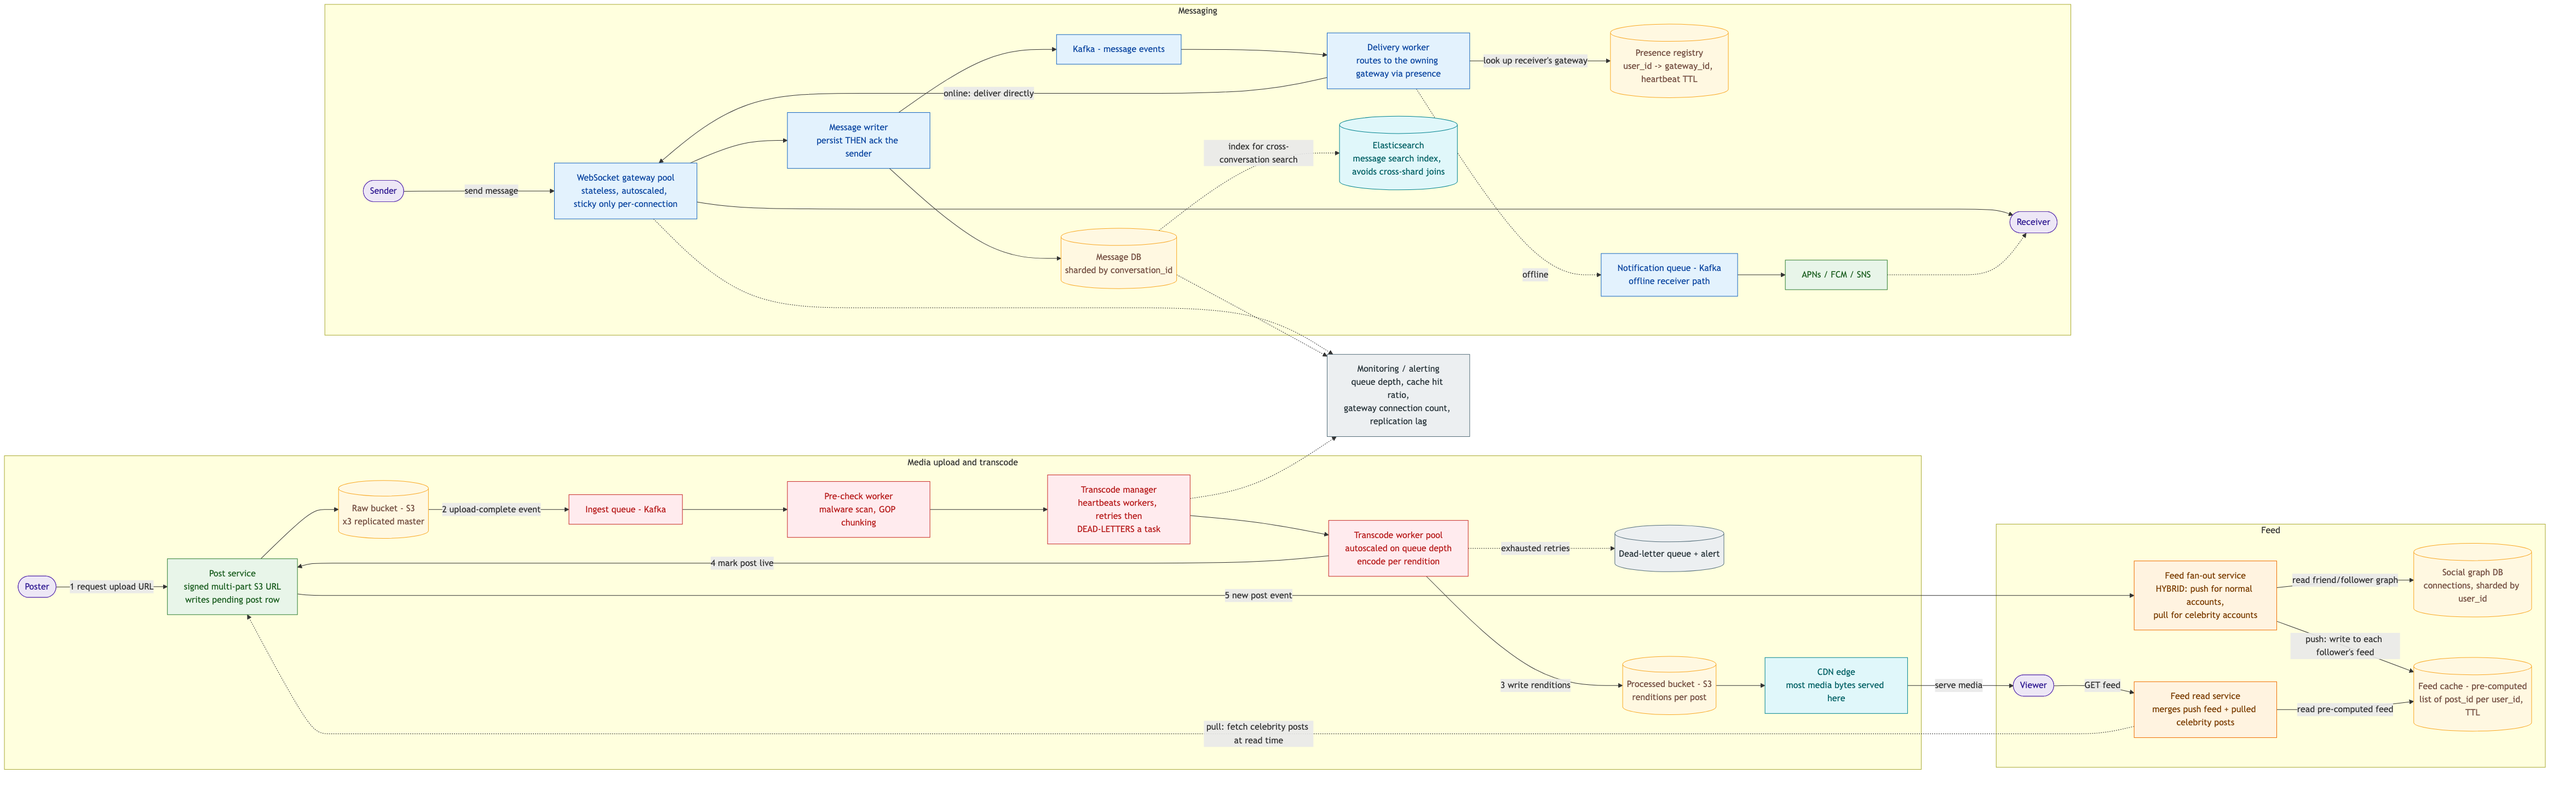
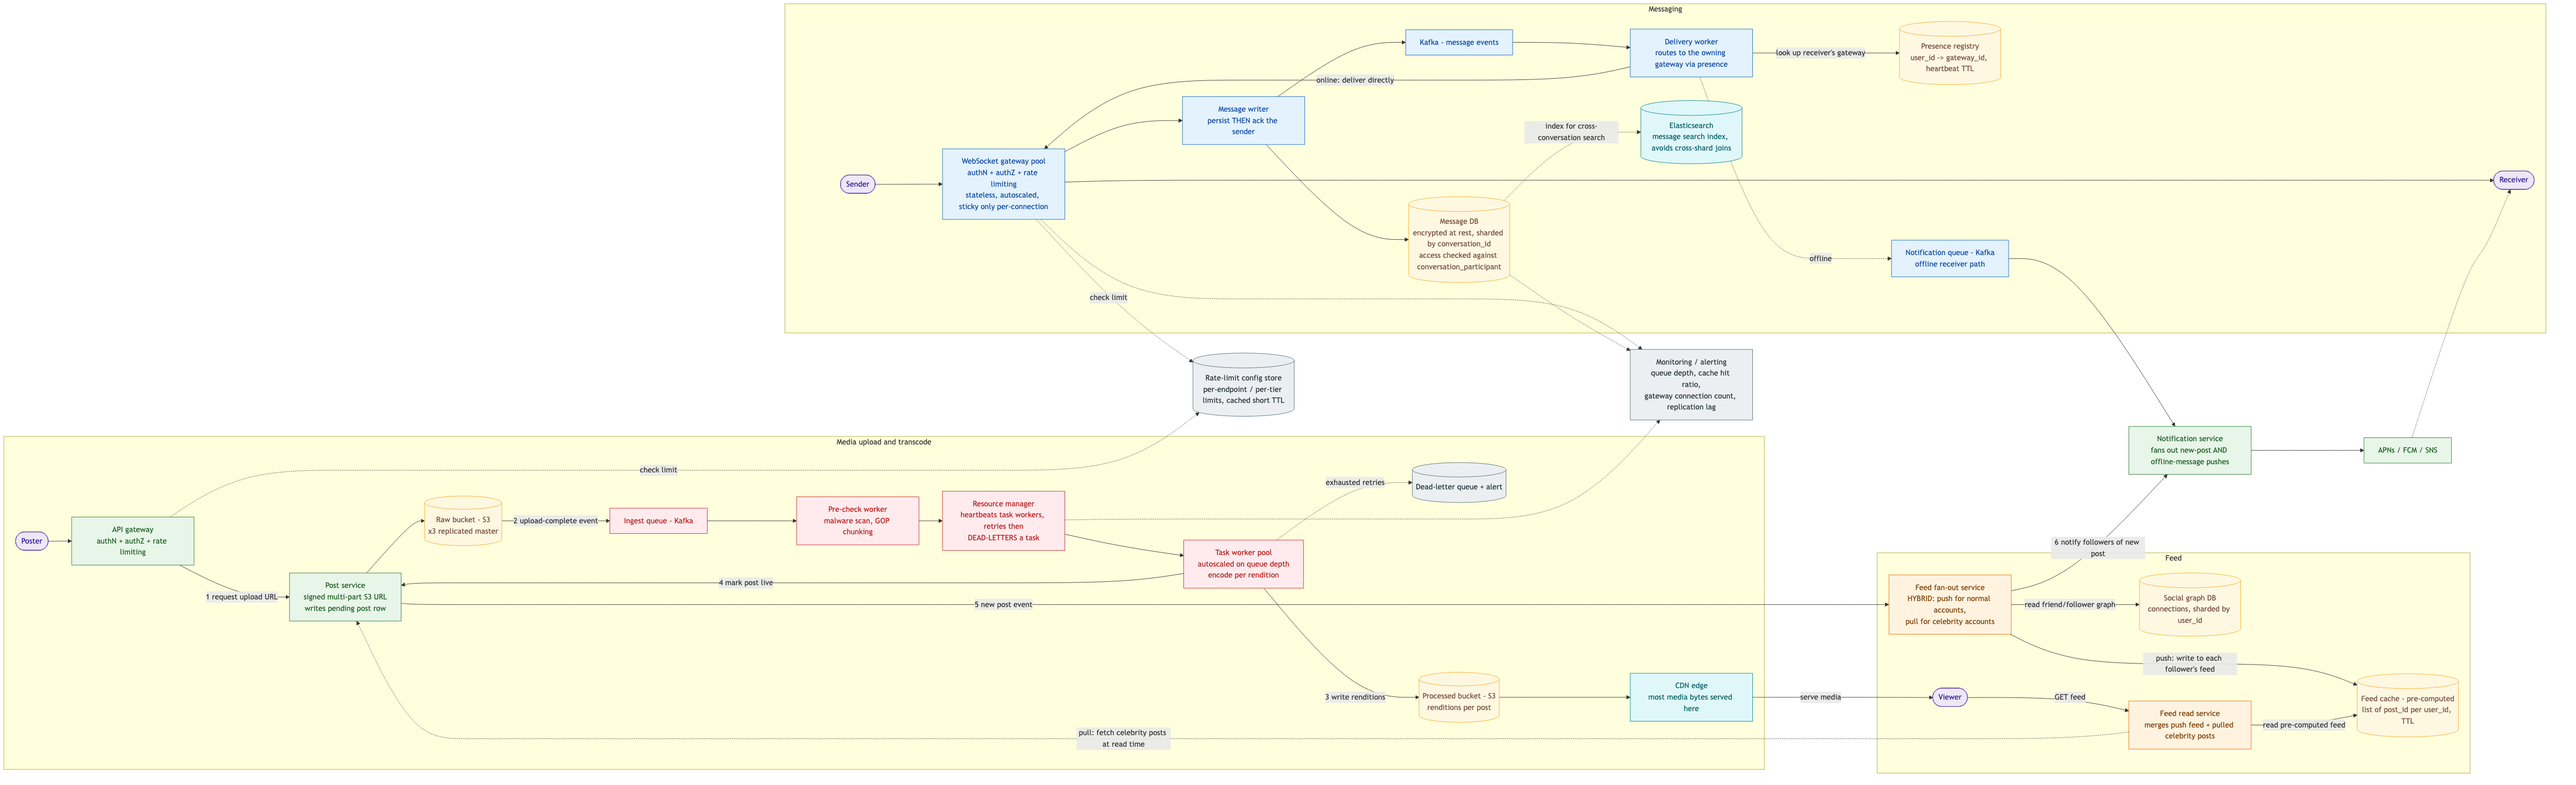
Added example databases

diff --git a/practice/13-session/README.md b/practice/13-session/README.md
@@ -105,13 +105,34 @@ This reads like one prompt but is really three canonical problems sharing a user
 
 ### Ideal architecture
 
-![Architecture diagram for the ideal social media platform, split into three sections. In the media upload and transcode section, a poster requests an upload URL from a Post service, which writes a pending post row and returns a signed multi-part S3 URL; the poster uploads directly to a raw S3 bucket, which emits an upload-complete event into a Kafka ingest queue read by a pre-check worker that does malware scanning and GOP chunking, handing off to a transcode manager that heartbeats a worker pool and dead-letters exhausted tasks into a dead-letter queue with alerting; workers write renditions into a processed S3 bucket served by a CDN edge, and mark the post live back in the Post service, which emits a new-post event. In the feed section, a feed fan-out service reads the social graph database and either pushes the post into each follower's pre-computed feed cache for normal accounts or leaves it to be pulled at read time for celebrity accounts; a feed read service merges the pre-computed feed with pulled celebrity posts and serves the viewer, who also reads media from the CDN. In the messaging section, a sender sends a message through a stateless, autoscaled WebSocket gateway pool to a message writer that persists to a message database sharded by conversation_id before acking the sender, then publishes to Kafka; a delivery worker looks up the receiver's gateway in a presence registry mapping user id to gateway id and either delivers directly through the owning gateway to the receiver when online, or publishes to a notification queue that pushes through APNs, FCM, or SNS when offline; the message database is also indexed into Elasticsearch to support searching across conversations without cross-shard joins. A shared monitoring and alerting component watches queue depth, cache hit ratio, WebSocket gateway connection counts, and database replication lag across all three sections.](./diagrams/ideal-design.png)
+![Architecture diagram for the ideal social media platform, split into three sections plus shared cross-cutting components. In the media upload and transcode section, a poster goes through an API gateway doing authentication, authorization, and rate limiting, checked against a shared rate-limit config store, to a Post service, which writes a pending post row and returns a signed multi-part S3 URL; the poster uploads directly to a raw S3 bucket, which emits an upload-complete event into a Kafka ingest queue read by a pre-check worker that does malware scanning and GOP chunking, handing off to a resource manager that heartbeats a pool of task workers and dead-letters exhausted tasks into a dead-letter queue with alerting; workers write renditions into a processed S3 bucket served by a CDN edge, and mark the post live back in the Post service, which emits a new-post event. In the feed section, a feed fan-out service reads the social graph database, either pushes the post into each follower's pre-computed feed cache for normal accounts or leaves it to be pulled at read time for celebrity accounts, and also notifies a shared notification service of the new post; a feed read service merges the pre-computed feed with pulled celebrity posts and serves the viewer, who also reads media from the CDN. In the messaging section, a sender goes through a WebSocket gateway pool doing authentication, authorization, and rate limiting, checked against the same shared rate-limit config store, to a message writer that persists to a message database, encrypted at rest, sharded by conversation_id, with access checked against a conversation_participant table, before acking the sender; the writer publishes to Kafka, and a delivery worker looks up the receiver's gateway in a presence registry mapping user id to gateway id, delivering directly through the owning gateway when online, or publishing to a notification queue when offline. Both the new-post path and the offline-message path converge on the same shared notification service, which pushes through APNs, FCM, or SNS to the receiver. The message database is also indexed into Elasticsearch to support searching across conversations without cross-shard joins. A shared monitoring and alerting component watches queue depth, cache hit ratio, WebSocket gateway connection counts, and database replication lag across all three sections.](./diagrams/ideal-design.png)
 
-- **Media** — identical crux to [S12's ideal design](../12-session/README.md#ideal-architecture): signed upload → Kafka → pre-check/GOP-chunk → DAG-parallel transcode with heartbeats and a dead-letter path → CDN-fronted processed storage.
+- **Media** — same crux as [S12's ideal design](../12-session/README.md#ideal-architecture): signed upload → Kafka → pre-check/GOP-chunk → a **resource manager** heartbeating a pool of **task workers**, one branch per rendition, run in parallel → a **dead-letter path** on exhausted retries → CDN-fronted processed storage. (Named generically — resource manager / task workers, not "transcode manager/worker" — because the same shape reappears for any async job-scheduling problem, not just video.)
 - **Feed** — a **fan-out service** decides push vs. pull **per account, based on follower count**, not per request: below a threshold, push into every follower's pre-computed `feed_cache`; above it, leave the account's posts to be pulled and merged at read time. This bounds the worst-case write amplification to a configured constant regardless of a celebrity's actual follower count.
 - **Messaging** — a **stateless, autoscaled WebSocket gateway pool** (never a single instance) fronts live connections; a **presence registry** (`user_id → gateway_id`, heartbeat TTL) is the routing table that lets a Delivery Worker find the *one* gateway instance holding a specific recipient among millions of open sockets. **Persist-then-ack**: the message is durable in the sharded Message DB before the sender's client sees success, so a crash anywhere downstream never loses it.
+- **Notifications** — the actual session had a Notification Service reachable only from the messaging path (offline receiver → push); the functional requirement is broader ("notifications on new post by a friend"), so the ideal design gives **new-post fan-out and offline-message delivery one shared Notification Service** rather than two separate, uncoordinated push paths — a single place to dedupe, rate-limit, and manage per-user notification preferences.
+- **Rate limiting** — a **shared, per-endpoint/per-tier config store** (`rl:{client}:{endpoint} → limit, window`), cached at each gateway with a short TTL, so a change to a limit doesn't require a redeploy. Upload, feed-read, and message-send each get their own budget — a single global limit (what the actual session left it at) either starves a legitimate burst or lets an abusive one through.
 - **Search** — the Message DB's sharding key (`conversation_id`) is right for conversation history but wrong for cross-conversation search, so that query pattern gets **its own index** (Elasticsearch) rather than forcing the primary store to serve a query shape it wasn't sharded for.
-- **Observability** — one shared layer across all three subsystems: transcode queue depth, feed-cache hit ratio, WebSocket gateway connection counts (the signal that triggers scaling the connection tier), and database replication lag.
+- **Observability** — one shared layer across all three subsystems: task queue depth, feed-cache hit ratio, WebSocket gateway connection counts (the signal that triggers scaling the connection tier), and database replication lag.
+
+### Consistency model (the split named explicitly)
+
+The single most consistently missed senior signal in this session — and in [S10](../10-session/README.md)/[S12](../12-session/README.md) before it — was never stating out loud which paths are CP and which are AP. Naming it costs two sentences:
+
+| Path | Model | Why |
+|---|---|---|
+| Message send/persist | **CP** | Never lose or duplicate a message — the write must be durable before the sender is acked. |
+| Post publish (`post.status → live`) | **CP** | Showing a broken or half-uploaded post in a feed is worse than a short delay. |
+| Feed reads | **AP** | A feed a few seconds stale is invisible to the user; blocking a read for strong consistency here is pure cost. |
+| View/like counters, presence registry | **AP** | Approximate and eventually consistent is the whole point — never gate a read or a delivery attempt on an exact count. |
+| Social graph (`connections`) writes | **CP** for the write, **AP** for fan-out reads | A friend request must resolve unambiguously, but the fan-out service reading follower lists can tolerate a few seconds of staleness. |
+
+### Security
+
+- **In transit** — TLS terminated at every gateway (API gateway, WebSocket gateway); no internal hop assumed trusted by default.
+- **At rest** — S3 server-side encryption (SSE-KMS) for media; column- or table-level encryption for `message.text` specifically, since it's the most sensitive row in the schema.
+- **Access control, enforced at the schema, not just the gateway** — a message read must check the caller against `conversation_participant`, not just a valid session token; a private post's media follows the same rule against `connections`. A public post's media can skip the per-request check entirely and sit behind the CDN with no auth — differentiating by content sensitivity avoids over-securing the cheap path or under-securing the sensitive one.
+- **Token scope** — short-lived, narrowly-scoped tokens per gateway (an upload token can't read messages; a messaging token can't post on someone else's behalf).
 
 ### Database schema
 
@@ -121,14 +142,38 @@ This reads like one prompt but is really three canonical problems sharing a user
 | `connections` | `id`, `user_id`, `friend_id`, `status`, `created_at` | The social graph — also carries the **follower-count** signal the feed fan-out service decides push-vs-pull on |
 | `post` | `post_id` (PK), `user_id`, `status` (`uploading → processing → live → failed`), `created_at` | Gates when a post appears in any feed |
 | `media_rendition` | `media_id`, `post_id`, `resolution`, `format`, `status` (`queued → processing → ready → failed`) | Same crux table as [S12](../12-session/README.md#database-schema) — one row per encoded output |
-| `message` | `message_id`, **`conversation_id`**, `sender_id`, `receiver_id`, `text`, `media_id`, `seq_no`, `created_at` | **`conversation_id` is the sharding key** — must exist on the row *before* proposing to shard by it (this session's schema omitted it) |
+| `conversation` | `conversation_id` (PK), `type` (`direct` \| `group`), `created_at` | One row per 1:1 or group thread — the entity `conversation_id` actually shards on |
+| `conversation_participant` | `conversation_id`, `user_id`, `joined_at` | Who's allowed to read/write a conversation — the **access-control anchor** for message reads, and what makes group messaging possible at all |
+| `message` | `message_id`, **`conversation_id`**, `sender_id`, `text`, `media_id`, `seq_no`, `created_at` | Sharded by `conversation_id`; no `receiver_id` column — a group message has many recipients, so recipients come from `conversation_participant`, not a fixed pair of columns |
+| `message_receipt` | `message_id`, `user_id`, `status` (`sent → delivered → read`), `updated_at` | One row per (message, recipient) — the durable backing for read/delivery receipts, separate from the message itself so a receipt update never touches the message row |
 | `feed_entry` *(ephemeral, cache-only)* | `user_id`, `post_id`, `ranked_at` | Never a durable table — TTL-evicted, rebuildable from `post` + `connections` on a cache loss |
+
+### Storage choices — which engine for which store
+
+A schema names the tables; it doesn't say what they run on. The actual session correctly split writer/reader/cache per store but never named an engine *category* for any of them beyond "database" — worth being explicit, because the right category differs store by store:
+
+| Store | Category | Example tech | Why this category, not another |
+|---|---|---|---|
+| `user` | **Relational (RDBMS)** | AWS Aurora / PostgreSQL | Small, structured rows with strict fields (`username`, `email`, `dob`); simple key lookups by `user_id`. No access pattern here needs NoSQL's flexibility or a graph's traversal. |
+| `post`, `media_rendition` | **Relational (RDBMS)**, co-located | PostgreSQL / MySQL | A status state machine plus lookups by `post_id`/`user_id` — exactly what rows, foreign keys, and indexes are for. Shard by `user_id` once one node's write rate outgrows it. |
+| `connections` (social graph) | **Wide-column NoSQL**, *not* a native graph DB | Cassandra / DynamoDB, keyed by `user_id` with a list of `friend_id`s | A real graph DB (Neo4j, AWS Neptune) earns its cost on **multi-hop** queries — "friends of friends," "people you may know." This design's only actual query is **one hop** ("give me user X's friend list"), which a key-value lookup answers in O(1) without paying for traversal machinery it never uses. Reach for a graph DB the moment discovery/recommendations become a real requirement. |
+| `message` | **Wide-column NoSQL** | Cassandra / ScyllaDB / DynamoDB, partitioned by `conversation_id`, clustered by `seq_no` | Append-heavy, strictly ordered, sharded-by-design — the exact workload shape these stores are built for (WhatsApp and Discord both run their message stores on Cassandra-family databases for this reason). A relational store *can* do this, but buys nothing extra and fights the sharding model. |
+| `conversation`, `conversation_participant` | Same **wide-column NoSQL** family, co-located with `message` | Cassandra / DynamoDB | Participant lookups are single-partition key reads (`conversation_id →` its participants); co-locating avoids a cross-store join on every message-read access-control check. |
+| `feed_entry` (feed cache) | **In-memory KV**, ranked | Redis, one **sorted set** per `user_id` (score = recency/rank) | Ephemeral and TTL-evicted by design (§ trade-offs below); a sorted set gives "top-N most recent posts" natively, with no separate `ORDER BY` query needed. |
+| Presence registry | **In-memory KV with native TTL** | Redis, key `user_id → gateway_id` | Redis's `EXPIRE` maps directly onto "the entry vanishes if the heartbeat stops," and its pub/sub can broadcast presence changes to interested services for free. |
+| Rate-limit config | **In-memory KV** (hot path) backed by a small **RDBMS** (source of truth) | Redis for the live limit/window read; PostgreSQL for the admin-edited rule table | The hot path (checked on every request) never touches the RDBMS directly — it reads a cached copy that refreshes on a short TTL. |
+| Message search index | **Inverted-index search engine** — not a general-purpose database | Elasticsearch / OpenSearch | Exists specifically because `conversation_id` sharding, correct for the Message DB, is the wrong shape for cross-conversation search — a fundamentally different query pattern needs a fundamentally different store. |
+| Raw / processed media | **Object storage** | AWS S3 | Blobs, not rows — no query pattern here ever needs a row-oriented store. |
+
+The pattern across the table: **relational where the data is small, structured, and queried by key or simple filter** (user, post); **wide-column NoSQL where writes are high-volume and the access pattern is "give me everything under one partition key," in order** (messages, conversations); **in-memory KV where the data is ephemeral, ranked, or needs a native TTL** (feed, presence, rate limits); and **a graph DB only once the query pattern actually needs multi-hop traversal**, which this design's requirements don't yet ask for. See [NoSQL Databases](../../concepts/05-databases-and-storage/nosql-databases.md) for the fuller category-by-category breakdown.
 
 ### Design trade-offs
 
 - **Push vs. pull is a per-account decision, not a per-request one** — deciding at read time whether to push or pull would require knowing every account's follower count on every post; deciding once per account (and re-evaluating only when follower count crosses the threshold) keeps the fan-out service's hot path simple.
 - **Persist-then-ack over ack-then-persist** — acking the sender before the message is durably written risks a "sent" message the recipient never receives on a crash; the extra write-before-ack latency is worth the durability guarantee for a messaging product.
 - **Shard the Message DB for conversation locality, index separately for cross-conversation search** — optimizing one store for both access patterns (fast single-conversation fetch *and* fast cross-conversation search) isn't possible with one sharding key; splitting the concern into a primary store + a search index is cheaper than forcing either pattern to fight the other's shard layout.
+- **A `conversation_participant` table over a fixed `sender_id`/`receiver_id` pair** — the pair-of-columns shape (what the actual session drew) only works for 1:1 chat; a join table generalizes to groups for free and doubles as the access-control check on every message read, instead of needing a separate authorization rule.
+- **Rate-limit rules are data, not code** — a config store keyed by client/tier/endpoint, hot-reloadable, means a limit changes without a redeploy; hard-coding one global limit (as in the actual session) is the version of this that always gets flagged.
 - **Feed cache is deliberately non-durable** — a feed entry has a short useful lifetime; paying for durable storage and a rebuild-on-write path costs more than accepting "rebuild from source on the rare total cache loss."
 - **Differentiate encryption/access-control by content sensitivity** — a public post's media can sit behind a CDN with no per-request auth check; a private message's content needs per-request authorization and encryption at rest — treating both the same either over-secures the cheap path or under-secures the sensitive one.
 
@@ -139,5 +184,8 @@ This reads like one prompt but is really three canonical problems sharing a user
 3. **Consistency and CAP trade-offs are the next lever, and they're now the most consistently open gap** — say the per-path split (writes CP, feed/analytics reads AP) even when nobody asks; it's a two-sentence addition with outsized scoring weight.
 4. **WebSocket/connection-tier scaling needs its own explicit story on every real-time prompt** — a presence registry + stateless gateway pool, stated as the design, the way [S09](../09-session/README.md) landed it — not left as "add a WebSocket Gateway" with an implied single instance.
 5. **Keep the schema and the scaling decision in sync** — this session sharded by a column (`conversation_id`) that wasn't in its own schema. Whenever a partitioning key gets named out loud, check it's actually a column on the table being partitioned.
+6. **Model messaging as `conversation` + `conversation_participant`, not `sender_id`/`receiver_id`, the moment "group messaging" is in scope** — a fixed pair of columns quietly caps the design at 1:1 chat; a participant join table costs one extra table and buys groups, read receipts (via a separate `message_receipt` row), and the access-control check on every read, for free.
+7. **Give rate limiting, security, and notifications the same explicit-component treatment as the "big three"** — they were the interviewer's own closing list of gaps, and each one is a small, nameable piece (a config store; TLS + at-rest encryption + a participant-table check; one shared fan-out service for both new-post and offline-message pushes) rather than a paragraph of hand-waving.
+8. **Naming "a database" isn't the same as naming its category** — say *which kind* and *why*, per store: relational for small structured rows queried by key (user, post), wide-column NoSQL for high-volume ordered writes under one partition key (messages), in-memory KV for anything ephemeral/ranked/TTL'd (feed cache, presence), and a graph DB *only* once a query genuinely needs multi-hop traversal — not by default just because the data is "relationships."
 
 → Consolidated feedback across all sessions lives in the [practice tracker](../README.md). Rehearse with the [Opening Ritual](../opening-ritual.md) + [Answer Framework](../answer-framework.md) before the next mock.
